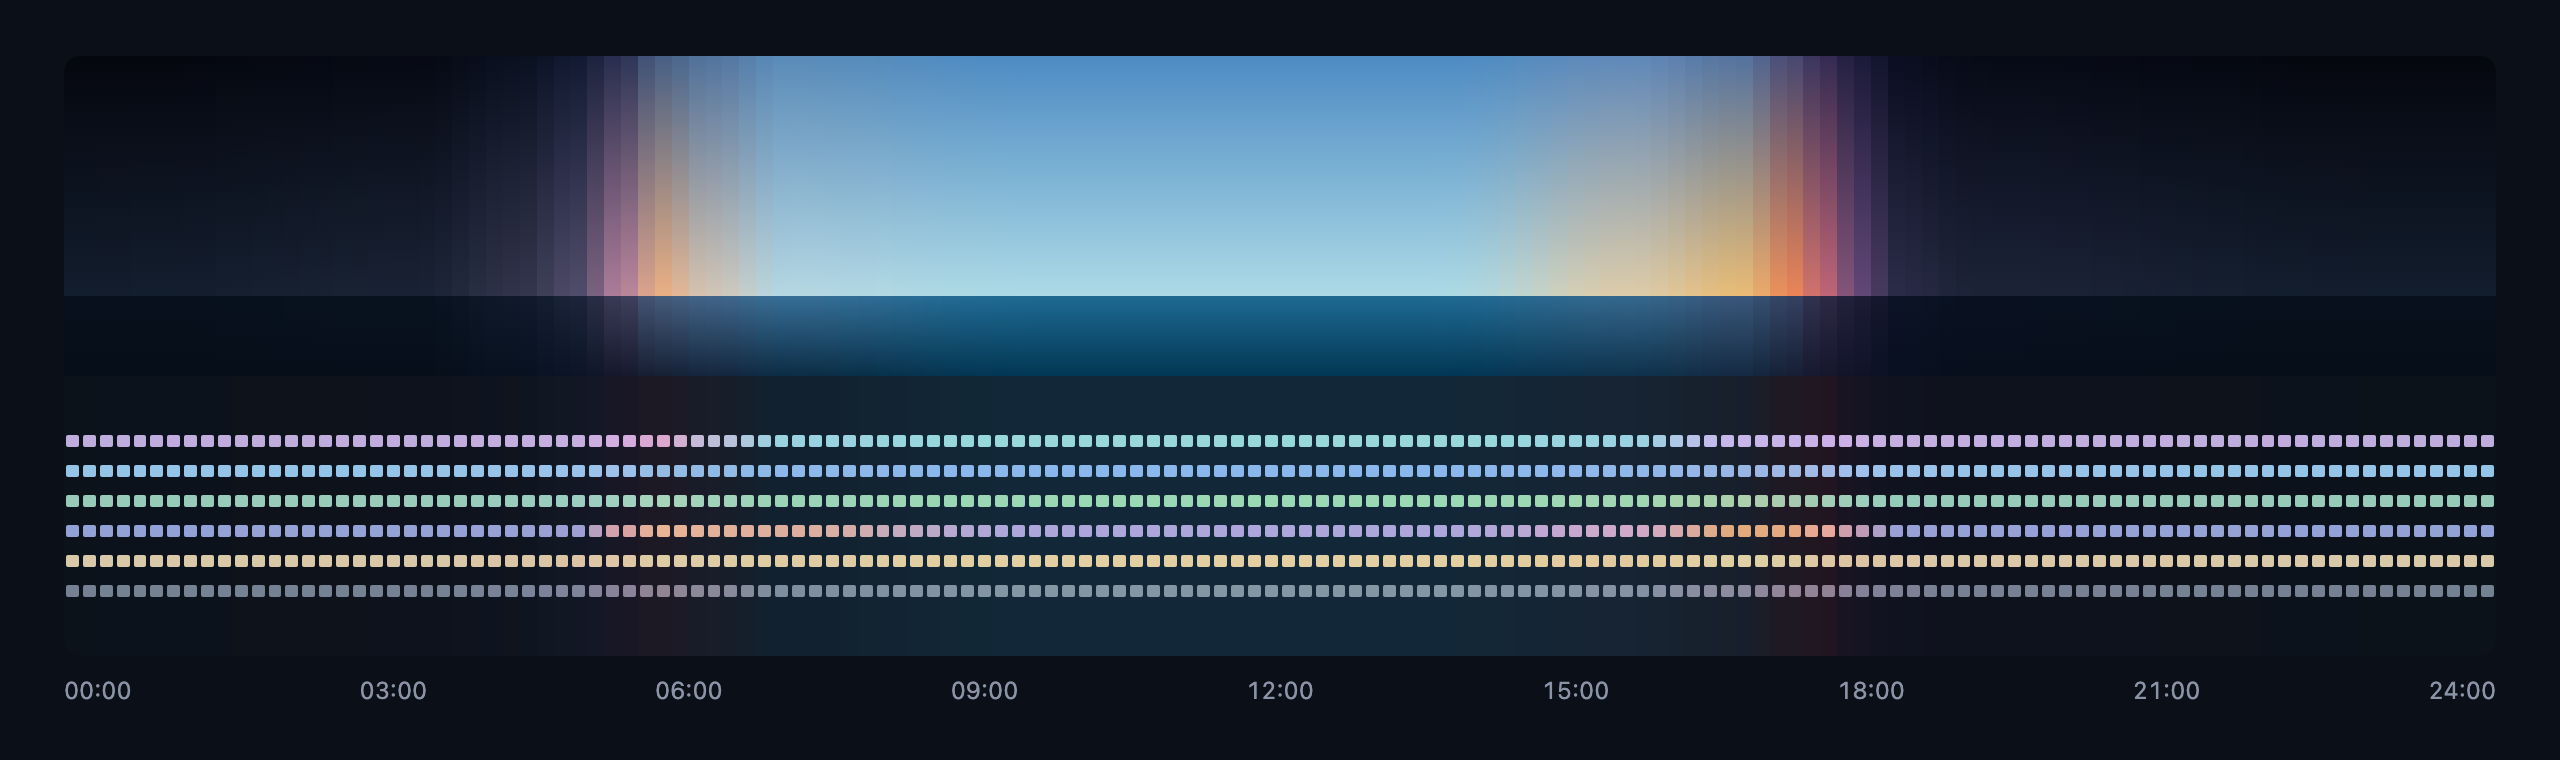
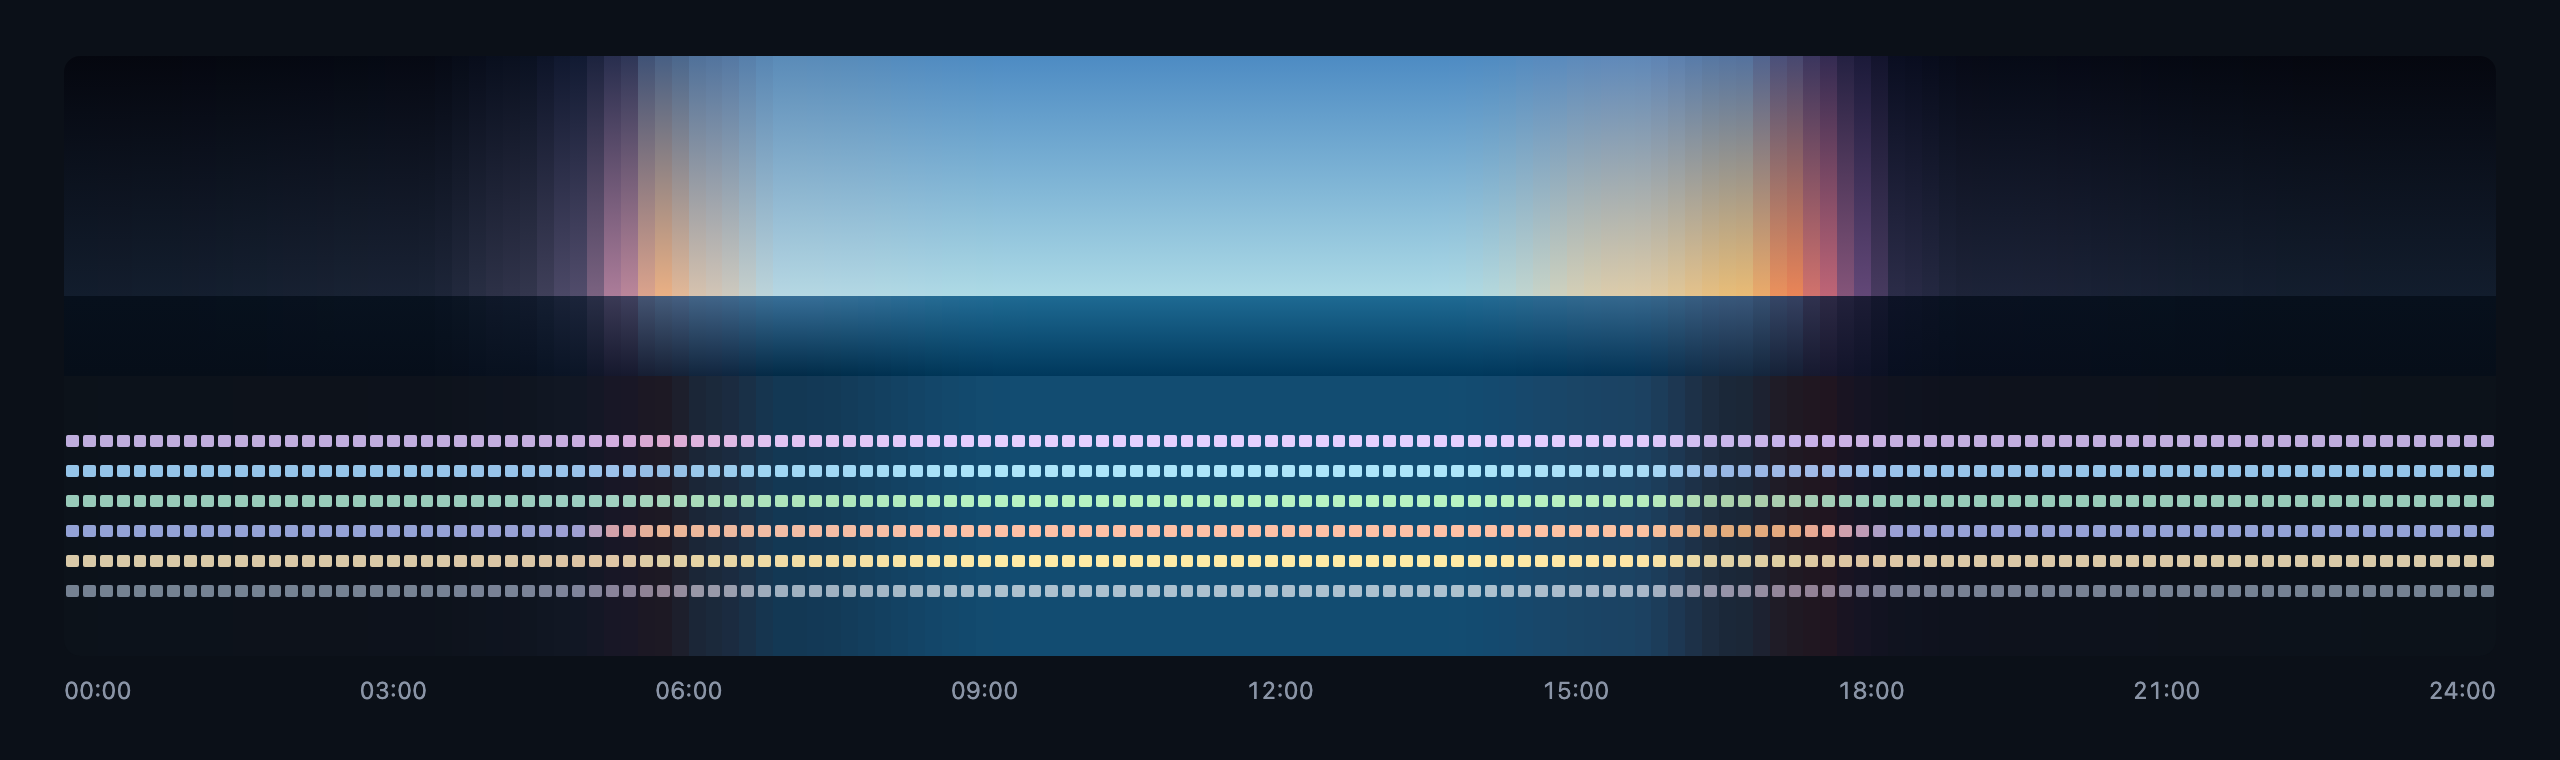
Release 0.2.0: midday opens into a blue sky
Noon is now a clear sky blue instead of a slightly bluer night. Syntax
colors become pale tints that float on the sky (lilac keywords, ice-blue
functions, green strings, peach numbers, sunlight-yellow types), keywords
stay lilac all day, and contrast requirements scale with the brightness
of the sky so every role stays at or above WCAG AA at every hour.
Buttons deepen to ocean blue under the midday sky. The integration test
now waits for all three settings to be removed before checking them.

Changed region(s): [[0.25, 0.4842, 0.6875, 0.8776]]

diff --git a/src/engine/moods.ts b/src/engine/moods.ts
@@ -15,11 +15,14 @@
  *            the Shoreline view's pixel scene (real sky brightness)
  *   text … param
  *            syntax roles. Each keeps its family all day; only the light on
- *            it changes. Lightness tiers are kept stable so roles stay apart:
+ *            it changes. In the dark hours, lightness tiers keep roles apart:
  *              text 0.87–0.90 · type (sand) / param (pale rose) 0.83–0.86
  *              string 0.80–0.83
  *              keyword 0.78–0.84 (bright) · function 0.77–0.80 (middle)
  *              number 0.72–0.81 (low whenever it is bluish) · comment 0.60–0.66
+ *            Under the midday blue sky every role becomes a pale tint (0.80–0.97)
+ *            so it floats on the blue: lilac keywords, ice-blue functions, green
+ *            strings, peach numbers, sunlight-yellow types.
  */
 
 import { Lab, lch, mix } from './color';
@@ -145,73 +148,73 @@ export const SUNRISE = mood({
   param: [0.85, 0.036, 20],
 });
 
-/** Sun ~14°: the orange fades into pale blue, then ocean blue. */
+/** Sun ~14°: the orange fades, the sky opens into blue. */
 export const MORNING = mood({
-  room: [0.24, 0.034, 245],
-  sky: [0.7, 0.07, 235],
-  glow: [0.9, 0.05, 80],
-  sea: [0.285, 0.06, 242],
+  room: [0.33, 0.065, 242],
+  sky: [0.8, 0.07, 228],
+  glow: [0.92, 0.05, 80],
+  sea: [0.28, 0.07, 242],
   sand: [0.6, 0.04, 80],
   zenith: [0.62, 0.09, 245],
   horizon: [0.86, 0.04, 220],
   ocean: [0.52, 0.09, 240],
   beach: [0.72, 0.04, 80],
-  text: [0.89, 0.014, 230],
-  comment: [0.64, 0.03, 250],
-  keyword: [0.83, 0.062, 215],
-  func: [0.77, 0.085, 252],
-  string: [0.82, 0.07, 162],
-  number: [0.79, 0.06, 40],
-  type: [0.85, 0.058, 86],
-  param: [0.85, 0.034, 30],
+  text: [0.95, 0.01, 230],
+  comment: [0.75, 0.03, 245],
+  keyword: [0.86, 0.07, 312],
+  func: [0.85, 0.07, 232],
+  string: [0.87, 0.08, 152],
+  number: [0.84, 0.07, 45],
+  type: [0.9, 0.075, 90],
+  param: [0.9, 0.034, 30],
 });
 
-/** Midday: clear ocean blue, soft cyan, bright coastal air. Still a dark room. */
+/** Midday: a clear blue sky. Every syntax color is a pale tint floating on it. */
 export const DAY = mood({
-  room: [0.265, 0.04, 240],
-  sky: [0.72, 0.085, 225],
-  glow: [0.93, 0.035, 95],
-  sea: [0.32, 0.075, 238],
+  room: [0.4, 0.085, 240],
+  sky: [0.86, 0.07, 212],
+  glow: [0.96, 0.035, 95],
+  sea: [0.33, 0.09, 242],
   sand: [0.66, 0.045, 82],
   zenith: [0.62, 0.11, 245],
   horizon: [0.86, 0.05, 215],
   ocean: [0.5, 0.1, 235],
   beach: [0.8, 0.045, 85],
-  text: [0.9, 0.012, 230],
-  comment: [0.66, 0.03, 240], // soft gray-blue
-  keyword: [0.84, 0.065, 200], // clear, muted cyan
-  func: [0.77, 0.09, 252], // ocean blue
-  string: [0.83, 0.08, 158], // sea green
-  number: [0.75, 0.075, 290], // slightly warm blue
-  type: [0.86, 0.065, 88], // sand in sunlight
-  param: [0.86, 0.034, 35],
+  text: [0.97, 0.008, 240], // cloud white
+  comment: [0.8, 0.03, 235], // pale gray-blue
+  keyword: [0.89, 0.07, 305], // pale lilac
+  func: [0.89, 0.065, 222], // ice blue
+  string: [0.91, 0.09, 150], // pale sea green
+  number: [0.86, 0.08, 45], // sunlit peach
+  type: [0.94, 0.09, 95], // sunlight yellow
+  param: [0.93, 0.035, 25],
 });
 
-/** Sun ~20° and sinking: the blue slowly warms. */
+/** Sun ~20° and sinking: the blue sky slowly warms. */
 export const AFTERNOON = mood({
-  room: [0.255, 0.034, 248],
-  sky: [0.72, 0.07, 240],
-  glow: [0.91, 0.06, 85],
-  sea: [0.305, 0.065, 242],
+  room: [0.37, 0.072, 244],
+  sky: [0.84, 0.065, 222],
+  glow: [0.94, 0.06, 85],
+  sea: [0.31, 0.08, 244],
   sand: [0.64, 0.05, 76],
   zenith: [0.62, 0.09, 250],
   horizon: [0.85, 0.05, 85],
   ocean: [0.5, 0.085, 240],
   beach: [0.78, 0.05, 80],
-  text: [0.895, 0.014, 70],
-  comment: [0.65, 0.03, 255],
-  keyword: [0.83, 0.062, 215],
-  func: [0.77, 0.085, 255],
-  string: [0.83, 0.075, 155],
-  number: [0.78, 0.065, 330],
-  type: [0.85, 0.065, 82],
-  param: [0.855, 0.034, 30],
+  text: [0.96, 0.012, 70],
+  comment: [0.78, 0.03, 250],
+  keyword: [0.88, 0.07, 305],
+  func: [0.87, 0.065, 230],
+  string: [0.9, 0.085, 148],
+  number: [0.86, 0.08, 50],
+  type: [0.93, 0.085, 90],
+  param: [0.92, 0.036, 30],
 });
 
 /** Sun ~7°: blue water, gold light. */
 export const GOLDEN = mood({
-  room: [0.24, 0.026, 262],
-  sky: [0.74, 0.08, 78],
+  room: [0.27, 0.035, 258],
+  sky: [0.76, 0.08, 78],
   glow: [0.85, 0.1, 75],
   sea: [0.28, 0.055, 250],
   sand: [0.6, 0.065, 70],

diff --git a/src/engine/atmosphere.ts b/src/engine/atmosphere.ts
@@ -18,7 +18,7 @@ import {
   withLightness,
 } from './color';
 import { BASE, KEYFRAMES, Palette, Role, mixPalettes } from './moods';
-import { dayPhase, nightness as nightnessOf } from './phase';
+import { dayPhase, nightness as nightnessOf, smoothstep } from './phase';
 import type { Sky } from './sky';
 
 export interface AtmosphereOptions {
@@ -189,29 +189,61 @@ function tasteModifier(p: Palette, opts: AtmosphereOptions, night: number): Pale
   return out;
 }
 
+/**
+ * Minimum WCAG contrast per role. In the dark hours the bar is high; under
+ * the bright midday sky it eases toward AA-plus, because nothing can reach
+ * 9:1 against a blue sky. Comments stay at AA (4.5:1) at every hour.
+ */
+const MIN_CONTRAST = {
+  text: [9, 7],
+  comment: [4.5, 4.5],
+  keyword: [6, 5],
+  func: [6, 5],
+  string: [6, 5],
+  number: [5.5, 4.8],
+  type: [6.5, 5.5],
+  param: [7, 5.5],
+  property: [7, 5.5],
+  punct: [5, 4.5],
+  operator: [5, 4.5],
+  escape: [6, 5],
+} as const satisfies Record<string, readonly [dark: number, bright: number]>;
+
+export type GuardedRole = keyof typeof MIN_CONTRAST;
+
+/** 0 for a dark room, 1 for the full midday sky. */
+function brightness(room: Lab): number {
+  return smoothstep(0.27, 0.4, room.L);
+}
+
+export function minContrast(role: GuardedRole, room: Lab): number {
+  const [dark, bright] = MIN_CONTRAST[role];
+  return dark + (bright - dark) * brightness(room);
+}
+
 /** Derived roles, then the readability guard. */
 function finalize(p: Palette): FinalPalette {
   // Measure against a background slightly lighter than the editor, which
   // covers hovers, the current-line highlight and widgets.
-  const ref = lighten(p.room, 0.03);
-  const guard = (c: Lab, min: number) => ensureContrast(c, ref, min);
+  const ref = lighten(p.room, 0.03 - 0.02 * brightness(p.room));
+  const guard = (c: Lab, role: GuardedRole) => ensureContrast(c, ref, minContrast(role, p.room));
 
-  const text = guard(p.text, 9);
-  const comment = guard(p.comment, 4.5);
+  const text = guard(p.text, 'text');
+  const comment = guard(p.comment, 'comment');
   return {
     ...p,
     text,
     comment,
-    keyword: guard(p.keyword, 6),
-    func: guard(p.func, 6),
-    string: guard(p.string, 6),
-    number: guard(p.number, 5.5),
-    type: guard(p.type, 6.5),
-    param: guard(p.param, 7),
-    property: guard(mix(text, p.func, 0.35), 7),
-    punct: guard(mix(text, comment, 0.55), 5),
-    operator: guard(mix(mix(text, comment, 0.55), p.keyword, 0.35), 5),
-    escape: guard(lighten(rotateHue(p.string, 32), 0.02), 6),
+    keyword: guard(p.keyword, 'keyword'),
+    func: guard(p.func, 'func'),
+    string: guard(p.string, 'string'),
+    number: guard(p.number, 'number'),
+    type: guard(p.type, 'type'),
+    param: guard(p.param, 'param'),
+    property: guard(mix(text, p.func, 0.35), 'property'),
+    punct: guard(mix(text, comment, 0.55), 'punct'),
+    operator: guard(mix(mix(text, comment, 0.55), p.keyword, 0.35), 'operator'),
+    escape: guard(lighten(rotateHue(p.string, 32), 0.02), 'escape'),
   };
 }
 

diff --git a/test/engine.test.ts b/test/engine.test.ts
@@ -6,16 +6,23 @@ import {
   DEFAULT_SKY,
   computeAtmosphere,
   contrast,
+  GuardedRole,
   dayPhase,
   deltaE,
   fromHex,
   lch,
+  minContrast,
   skyAt,
   staticAtmosphere,
   sunPosition,
   toHex,
+  toLch,
   todaysSunTimes,
 } from '../src/engine';
+
+const GUARDED: GuardedRole[] = [
+  'text', 'comment', 'keyword', 'func', 'string', 'number', 'type', 'param', 'property', 'punct', 'operator', 'escape',
+];
 
 const JST = (iso: string) => new Date(`${iso}+09:00`);
 const SHONAN_REAL = { ...DEFAULT_SKY, useLocalTime: false };
@@ -115,27 +122,15 @@ describe('atmosphere', () => {
       { ...DEFAULT_ATMOSPHERE, nightDarkness: 1, oceanSaturation: 0, cloudCover: 1 },
       { ...DEFAULT_ATMOSPHERE, intensity: 0.5 },
     ];
-    const minimum: Record<string, number> = {
-      text: 9,
-      comment: 4.5,
-      keyword: 6,
-      func: 6,
-      string: 6,
-      number: 5.5,
-      type: 6.5,
-      param: 7,
-      property: 7,
-      punct: 5,
-      operator: 5,
-      escape: 6,
-    };
     for (const opts of variants) {
       for (const day of DAYS) {
         for (const d of minutesOf(day, 10)) {
           const p = computeAtmosphere(skyAt(d, SHONAN_REAL), opts).palette;
-          for (const [role, min] of Object.entries(minimum)) {
-            const c = contrast(p[role as keyof typeof p], p.room);
-            assert.ok(c >= min - 0.05, `${role} ${c.toFixed(2)} < ${min} at ${d.toISOString()}`);
+          for (const role of GUARDED) {
+            const min = minContrast(role, p.room);
+            const c = contrast(p[role], p.room);
+            assert.ok(c >= min - 0.05, `${role} ${c.toFixed(2)} < ${min.toFixed(2)} at ${d.toISOString()}`);
+            assert.ok(c >= 4.5, `${role} below WCAG AA at ${d.toISOString()}`);
           }
         }
       }
@@ -157,11 +152,16 @@ describe('atmosphere', () => {
     }
   });
 
-  it('stays dark: the editor background is never a light theme', () => {
+  it('opens into a blue sky at noon, but never becomes a white light theme', () => {
+    const noon = computeAtmosphere(skyAt(JST('2026-06-21T11:40:00'), SHONAN_REAL)).palette;
+    const night = computeAtmosphere(skyAt(JST('2026-06-21T00:30:00'), SHONAN_REAL)).palette;
+    assert.ok(noon.room.L > night.room.L + 0.18, 'noon is clearly brighter than night');
+    assert.ok(toLch(noon.room).c > 0.07 && Math.abs(toLch(noon.room).h - 240) < 15, 'noon is sky blue');
     for (const day of DAYS) {
       for (const d of minutesOf(day, 15)) {
-        const room = computeAtmosphere(skyAt(d, SHONAN_REAL), { ...DEFAULT_ATMOSPHERE, nightDarkness: 0 }).palette.room;
-        assert.ok(room.L < 0.32, `room L ${room.L} at ${d.toISOString()}`);
+        const p = computeAtmosphere(skyAt(d, SHONAN_REAL), { ...DEFAULT_ATMOSPHERE, nightDarkness: 0 }).palette;
+        assert.ok(p.room.L <= 0.41, `room L ${p.room.L} at ${d.toISOString()}`);
+        assert.ok(p.text.L > p.room.L + 0.5, `text stays light on the sky at ${d.toISOString()}`);
       }
     }
   });

diff --git a/integration/suite.ts b/integration/suite.ts
@@ -70,7 +70,7 @@ export async function run(): Promise<void> {
     await until('noon colors', () => block('workbench.colorCustomizations')?.['editor.background'] !== night);
     const noon = block('workbench.colorCustomizations')!['editor.background'] as string;
     assert.ok(luminance(noon) > luminance(night), `noon ${noon} lighter than night ${night}`);
-    assert.ok(luminance(noon) < 60, `noon ${noon} is still a dark room`);
+    assert.ok(luminance(noon) > luminance(night) + 30, `noon ${noon} is a blue sky`);
     assert.equal(block('workbench.colorCustomizations')!['myExtension.color'], '#ff00ff');
     step(`follows the held time (12:00 → ${noon}) and keeps the user's own entries`);
 
@@ -81,7 +81,13 @@ export async function run(): Promise<void> {
     step('opens the Shoreline editor tab');
 
     await config().update('shonanVibes.dynamicColors', false, G);
-    await until('overrides removed', () => block('workbench.colorCustomizations')?.['editor.background'] === undefined);
+    await until(
+      'overrides removed',
+      () =>
+        block('workbench.colorCustomizations')?.['editor.background'] === undefined &&
+        block('editor.tokenColorCustomizations') === undefined &&
+        block('editor.semanticTokenColorCustomizations') === undefined,
+    );
     assert.deepEqual(block('workbench.colorCustomizations'), { 'myExtension.color': '#ff00ff' });
     assert.equal(block('editor.tokenColorCustomizations'), undefined);
     assert.equal(block('editor.semanticTokenColorCustomizations'), undefined);

diff --git a/src/theme/mapper.ts b/src/theme/mapper.ts
@@ -6,7 +6,8 @@
  * so both are always the same theme.
  *
  * Visual language
- *   abyss < shade < room < raised < mist   (surfaces, darkest to lightest)
+ *   abyss < shade < room < raised < mist   (surfaces, darkest to lightest;
+ *                                           a dark room at night, a blue sky at noon)
  *   title & activity bar = abyss · side bar, tabs, panel = shade
  *   editor = room · widgets & menus = mist
  *   glow  = light itself: cursor, active tab sliver, horizon line, find
@@ -115,7 +116,8 @@ function workbenchColors(p: FinalPalette, opts: ThemeOptions): Record<string, st
 
   const accent = p.sky;
   const accentInk = ensureContrast(accent, shade, 4.8);
-  const button = scaleChroma(withLightness(accent, 0.44), 0.85);
+  // Muted sky-colored buttons in the dark; deep ocean-blue ones under the midday sky.
+  const button = scaleChroma(withLightness(accent, 0.44 - 1.4 * Math.max(0, room.L - 0.3)), 0.85);
   const buttonFg = ensureContrast(text, button, 4.5);
   const glow = p.glow;
   const cursor = ensureContrast(glow, room, 4.5);

diff --git a/README.md b/README.md
@@ -2,7 +2,7 @@
 
 **One theme. One coastline. One day.**
 
-A quiet dark theme for VS Code that follows the light of the Shonan coast. The colors move with the sun: moonlit navy after midnight, violet and pale pink at dawn, clear ocean blue at noon, gold and coral at sunset, then back into the night. The changes are slow enough that you won't see them happen. You'll just notice, now and then, that the light is different.
+A quiet theme for VS Code that follows the light of the Shonan coast. The colors move with the sun: moonlit navy after midnight, violet and pale pink at dawn, an open blue sky at noon, gold and coral at sunset, then back into the night. The changes are slow enough that you won't see them happen. You'll just notice, now and then, that the light is different.
 
 ![The editor's colors through one day on the Shonan coast, from midnight to midnight](media/screenshots/day-ribbon.png)
 
@@ -15,7 +15,7 @@ A quiet dark theme for VS Code that follows the light of the Shonan coast. The c
 | ![Shonan Vibes at 01:40, deep night](media/screenshots/night.png) | ![Shonan Vibes at 05:52, sunrise](media/screenshots/sunrise.png) |
 | **01:40 · Night.** Black, navy, moonlight. | **05:52 · Sunrise.** Peach light enters the room. |
 | ![Shonan Vibes at 11:30, midday](media/screenshots/day.png) | ![Shonan Vibes at 16:35, golden hour](media/screenshots/golden-hour.png) |
-| **11:30 · Day.** Clear ocean blue, still a dark room. | **16:35 · Golden hour.** The blue warms. |
+| **11:30 · Day.** An open blue sky; code floats on it in pale tints. | **16:35 · Golden hour.** The blue warms. |
 | ![Shonan Vibes at 17:06, sunset](media/screenshots/sunset.png) | ![Shonan Vibes at 17:38, twilight](media/screenshots/twilight.png) |
 | **17:06 · Sunset.** Coral on the horizon line. | **17:38 · Twilight.** Violet, then indigo. |
 
@@ -23,11 +23,11 @@ A quiet dark theme for VS Code that follows the light of the Shonan coast. The c
 
 ## What it is
 
-- **A dark theme first.** The editor background stays dark all day, like looking at a bright sea from inside a dim room. It never turns into a light theme.
+- **Night is dark, noon is a blue sky.** After dark the editor is deep navy. Through the morning it opens into a clear sky blue, and the syntax colors become pale tints (lilac, ice blue, green, peach, sunlight yellow) that float on it. Text always stays light, so it never becomes a white light theme.
 - **Driven by the sun, not the clock.** Shonan Vibes computes the sun's real altitude for today (NOAA algorithm, offline). So the June sunset at 18:58 and the December sunset at 16:32 get the same colors, at the right time.
 - **Continuous.** There are no theme switches. Twelve moods (night, blue hour, dawn, sunrise, morning, day, afternoon, golden hour, sunset, afterglow, twilight, dusk) are blended continuously in OKLab, a perceptual color space, with easing. No color changes by more than half a just-noticeable difference per minute.
 - **Stable meaning.** Keywords, functions, strings, numbers, types and comments each keep their color family all day; only the light falling on them changes. Numbers, for example, are a muted blue at night, soft peach at sunrise and soft orange at sunset.
-- **Readable at every hour.** A contrast guard runs last on every color. Text stays at or above 9:1, syntax colors above 5.5:1 and comments above 4.5:1 (WCAG AA), for every hour of the year and every setting combination. The test suite checks this.
+- **Readable at every hour.** A contrast guard runs last on every color. Text stays at or above 9:1 in the dark hours and 7:1 under the midday sky, and every syntax color, comments included, stays at or above WCAG AA (4.5:1), for every hour of the year and every setting combination. The test suite checks this.
 - **Calm.** Chroma is capped low. Nothing is neon, and there are no animations in the editor.
 
 ## The shoreline

diff --git a/CHANGELOG.md b/CHANGELOG.md
@@ -1,5 +1,12 @@
 # Changelog
 
+## 0.2.0
+
+- Midday is now a blue sky: the editor opens from night navy into a clear sky blue through the morning, and syntax colors become pale tints that float on it (lilac keywords, ice-blue functions, green strings, peach numbers, sunlight-yellow types).
+- Keywords stay in the lilac family all day.
+- Contrast requirements scale with the brightness of the sky; every syntax color stays at or above WCAG AA at every hour.
+- Buttons deepen to ocean blue under the midday sky.
+
 ## 0.1.1
 
 - New extension icon: the full Shonan sunset artwork.
